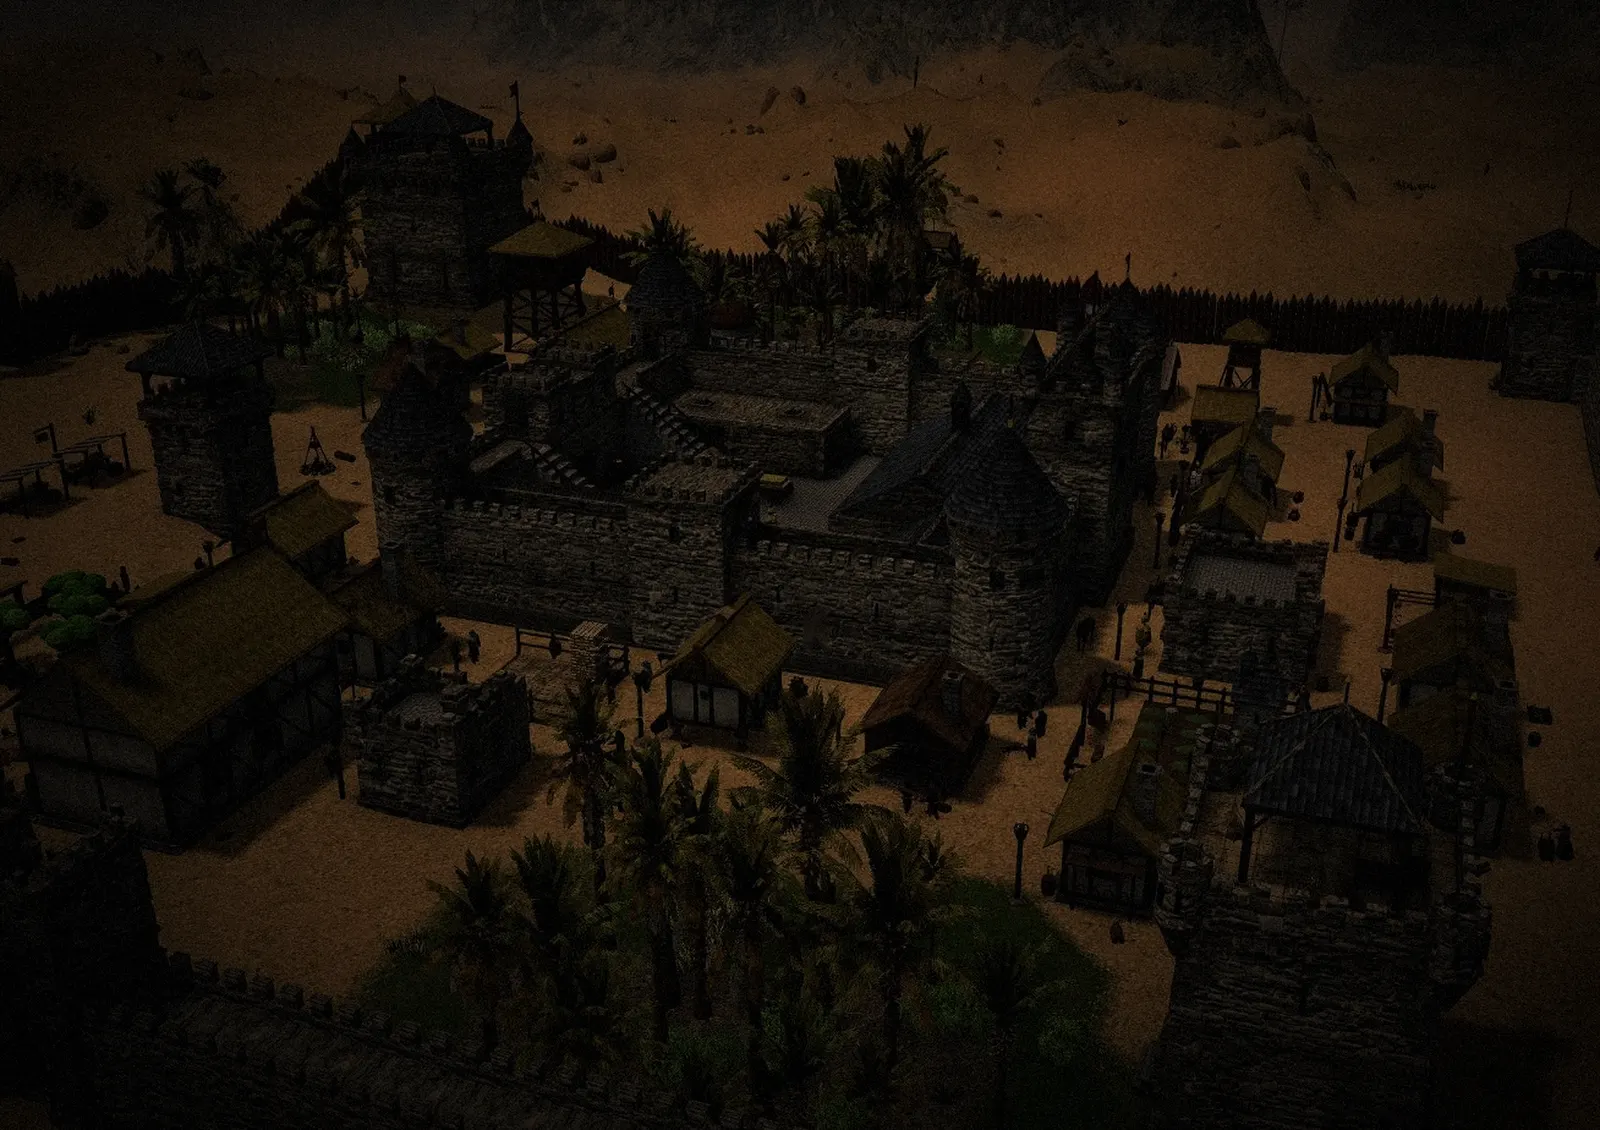
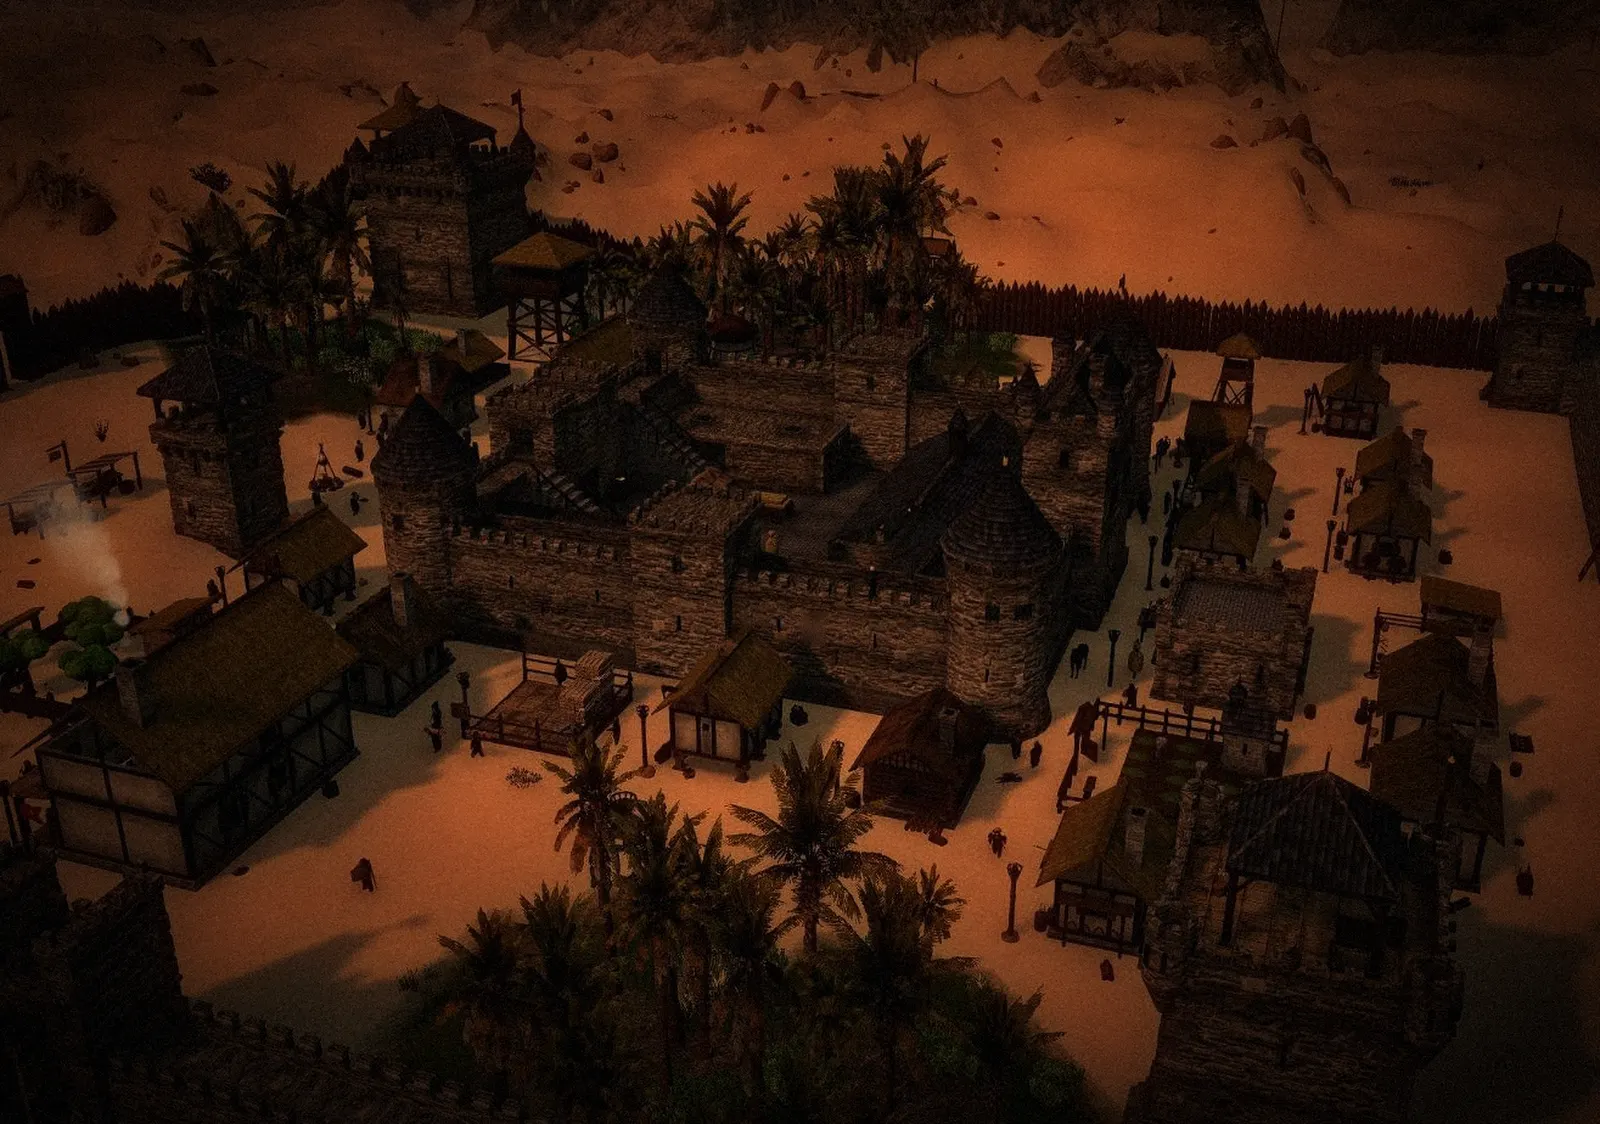
Zdjęcia ekranu wczytywania i menu zrobione na nowo: jasny piach pustyni o zachodzie, oaza z wodą, osada, brama i wieża (zima bez zmian)
Claude-Session: https://claude.ai/code/session_015cSy42sDt1hku2gD2Ygw2c

diff --git a/src/ui/loadscreen.ts b/src/ui/loadscreen.ts
@@ -29,7 +29,7 @@ export function gameTagline(): string {
  * spodem — widać go, póki zdjęcie się nie wczyta.
  */
 export const SHOTS = ['1-osada', '2-brama', '3-mury', '4-wieza', '5-pustynia', '6-zima'];
-const shotUrl = (i: number): string => `${(import.meta as unknown as { env?: { BASE_URL?: string } }).env?.BASE_URL ?? './'}shots/${SHOTS[i]}.webp?v=2`;   // v: nowe przerobienie zdjęć (przeglądarka nie bierze starych z pamięci)
+const shotUrl = (i: number): string => `${(import.meta as unknown as { env?: { BASE_URL?: string } }).env?.BASE_URL ?? './'}shots/${SHOTS[i]}.webp?v=3`;   // v: nowe przerobienie zdjęć (przeglądarka nie bierze starych z pamięci)
 /** Pierwsze zdjęcie tego wejścia: losowe, ale inne niż przy poprzednim (odświeżenie menu = kolejne zdjęcie) */
 const firstShot = ((): number => {
   let last = -1;
